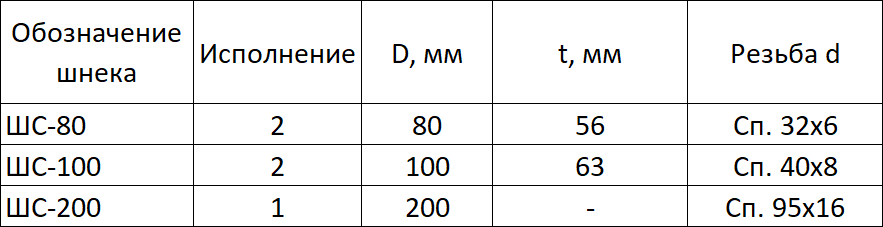
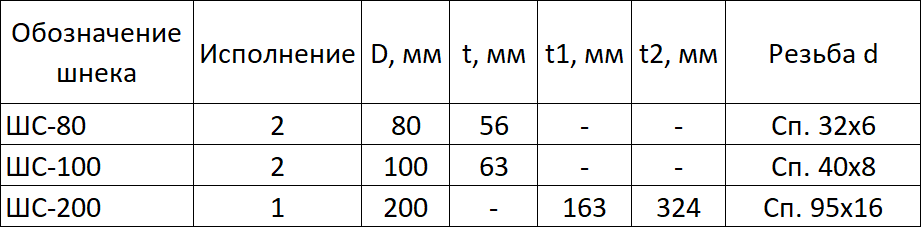
Полностью готовы все дефолтные буровые шнеки

diff --git a/GenShnekApp/MainWindow.xaml.cs b/GenShnekApp/MainWindow.xaml.cs
@@ -275,7 +275,6 @@ namespace GenShnekApp
                             case 0:
                                 shnekDiam = 80;
                                 tubeRad = (shnekDiam * 10 / 18) / 2;
-                                tubeLength = 200;
                                 CylinderCreation(tubeRad, tubeLength);
                                 SpyralCreation(tubeRad, step, 0, tubeLength, shnekThick, shnekDiam);
                                 JointCreation4(32, 28, 56);
@@ -294,12 +293,15 @@ namespace GenShnekApp
                                 SpyralCreation(36 / 2, 8, -63 * 4 / 3 * 0.95, 63, 4, 40);
                                 break;
                             case 2:
-                                MessageBox.Show("Отверстие шнека типа 2 исполнения 1 на данный момент не реализовано");
                                 shnekDiam = 200;
                                 tubeRad = (shnekDiam * 10 / 18) / 2;
+                                tubeLength = 400;
                                 CylinderCreation(tubeRad, tubeLength);
                                 SpyralCreation(tubeRad, step, 0, tubeLength, shnekThick, shnekDiam);
-                                JointCreation3(tubeRad * 2 * 0.9, tubeLength);
+                                JointCreation3(83, 95, tubeLength, 324/2);
+                                HoleType2Creation1(95, tubeRad * 2, 163, 324, tubeLength);
+                                SpyralCreation(41.5, 16, 163 / 16, 163 * 3 / 4, 8.25, 95);
+                                SpyralCreation(41.5, 16, tubeLength + 324 / 16, 324 * 3 / 8, 8.1, 95);
                                 break;
                         }
                     }
@@ -311,7 +313,7 @@ namespace GenShnekApp
                             MessageBox.Show("Отверстие шнека типа 2 исполнения 1 на данный момент не реализовано");
                             CylinderCreation(tubeRad, tubeLength);
                             SpyralCreation(tubeRad, step, 0, tubeLength, shnekThick, shnekDiam);
-                            HoleType2Creation1(tubeRad);
+                            //HoleType2Creation1(tubeRad);
                         }
                         else
                         {
@@ -594,16 +596,16 @@ namespace GenShnekApp
         }
 
         ///////////////////////////Создание присоединительного элемента 3 (тип 2 исполнение 1)/////////////////////////////
-        private void JointCreation3(double diam, double length)
+        private void JointCreation3(double threadDiam, double threadDiam0, double length, double jointLength)
         {
             ksEntity basePlaneZOY = (ksEntity)part.GetDefaultEntity((short)Obj3dType.o3d_planeYOZ);
 
-            double rad1 = (diam * 0.8) / 2;
-            double rad2 = diam / 2;
-            double len1 = 174 * 0.1;
-            double len2 = 174 * 0.8;
-            double len3 = 174 * 0.05;
-            double len4 = 174 * 0.05;
+            double rad1 = threadDiam / 2;
+            double rad2 = threadDiam / 2;
+            double len1 = jointLength * 0.1;
+            double len2 = jointLength * 0.8;
+            double len3 = jointLength * 0.05;
+            double len4 = jointLength * 0.05;
 
             ksEntity plane1 = OffsetPlaneCreation(length, basePlaneZOY);
             ksEntity ksSketchE1 = part.NewEntity((int)Obj3dType.o3d_sketch);
@@ -642,7 +644,7 @@ namespace GenShnekApp
             ksSketchE2.Create();
             ksDocument2D Sketch2D2 = (ksDocument2D)ksSketchDef2.BeginEdit();
 
-            Sketch2D2.ksCircle(0, 0, rad2, 1);
+            Sketch2D2.ksCircle(0, 0, rad1, 1);
 
             ksSketchDef2.EndEdit();
 
@@ -817,25 +819,36 @@ namespace GenShnekApp
 
         //TODO
         ///////////////////////////Создание сквозного отверстия 1 (тип 2 исполнение 1)/////////////////////////////
-        private void HoleType2Creation1(double diam)
+        private void HoleType2Creation1(double thredDiam, double diam, double threadLength1, double threadLength2, double fullLength)
         {
             ksEntity basePlaneZOY = (ksEntity)part.GetDefaultEntity((short)Obj3dType.o3d_planeYOZ);
 
-            double rad = diam / 2;
-            double len1 = 163;
+            double rad1 = thredDiam / 2;
+            double rad2 = rad1 * 3 / 5;
+            double rad3 = rad2;
+            double rad4 = rad2;
+            double rad5 = rad4;
+            double rad6 = rad1;
+            double len1 = threadLength1;
+            double len2 = len1 / 20;
+            double len3 = len2 * 2;
+            double len4 = fullLength + threadLength2 / 2;
+            double len5 = len2 * 2;
+            double len6 = len4 - len1 - len2 - len3 - threadLength2 - len5;
 
+            ksEntity plane1 = OffsetPlaneCreation(0, basePlaneZOY);
             ksEntity ksSketchE1 = part.NewEntity((int)Obj3dType.o3d_sketch);
 
             SketchDefinition ksSketchDef1 = ksSketchE1.GetDefinition();
 
-            ksSketchDef1.SetPlane(basePlaneZOY);
+            ksSketchDef1.SetPlane(plane1);
             ksSketchE1.Create();
             ksDocument2D Sketch2D1 = (ksDocument2D)ksSketchDef1.BeginEdit();
 
-            Sketch2D1.ksCircle(0, 0, rad, 1);
+            Sketch2D1.ksCircle(0, 0, rad1, 1);
             
-            ksRectangleParam rect1 = (ksRectangleParam)kompas.GetParamStruct((short)StructType2DEnum.ko_RectangleParam);
-/*            if (rect1 != null)
+/*            ksRectangleParam rect1 = (ksRectangleParam)kompas.GetParamStruct((short)StructType2DEnum.ko_RectangleParam);
+            if (rect1 != null)
             {
                 // Параметры прямоугольника
                 rect1.ang = 0;
@@ -857,10 +870,149 @@ namespace GenShnekApp
             {
                 extrDef1.SetSketch(ksSketchE1);
 
-                extrProp1.direction = (short)Direction_Type.dtNormal;
-                extrProp1.typeNormal = (short)End_Type.etBlind;
-                extrProp1.depthNormal = len1;
+                extrProp1.direction = (short)Direction_Type.dtReverse;
+                extrProp1.typeReverse = (short)End_Type.etBlind;
+                extrProp1.depthReverse = len1;
                 cutExtr1.Create();
+            }
+
+            ksEntity plane2 = OffsetPlaneCreation(len1, basePlaneZOY);
+            ksEntity ksSketchE2 = part.NewEntity((int)Obj3dType.o3d_sketch);
+
+            SketchDefinition ksSketchDef2 = ksSketchE2.GetDefinition();
+
+            ksSketchDef2.SetPlane(plane2);
+            ksSketchE2.Create();
+            ksDocument2D Sketch2D2 = (ksDocument2D)ksSketchDef2.BeginEdit();
+
+            Sketch2D2.ksCircle(0, 0, rad2, 1);
+
+            ksSketchDef2.EndEdit();
+
+            ksEntity cutExtr2 = part.NewEntity((short)Obj3dType.o3d_cutExtrusion);
+            ksCutExtrusionDefinition extrDef2 = cutExtr2.GetDefinition();
+            ksExtrusionParam extrProp2 = (ksExtrusionParam)extrDef2.ExtrusionParam();
+
+            if (extrProp2 != null)
+            {
+                extrDef2.SetSketch(ksSketchE2);
+
+                extrProp2.direction = (short)Direction_Type.dtReverse;
+                extrProp2.typeReverse = (short)End_Type.etBlind;
+                extrProp2.depthReverse = len2;
+                cutExtr2.Create();
+            }
+
+            ksEntity plane3 = OffsetPlaneCreation(len1 + len2, basePlaneZOY);
+            ksEntity ksSketchE3 = part.NewEntity((int)Obj3dType.o3d_sketch);
+
+            SketchDefinition ksSketchDef3 = ksSketchE3.GetDefinition();
+
+            ksSketchDef3.SetPlane(plane3);
+            ksSketchE3.Create();
+            ksDocument2D Sketch2D3 = (ksDocument2D)ksSketchDef3.BeginEdit();
+
+            Sketch2D3.ksCircle(0, 0, rad3, 1);
+
+            ksSketchDef3.EndEdit();
+
+            ksEntity cutExtr3 = part.NewEntity((short)Obj3dType.o3d_cutExtrusion);
+            ksCutExtrusionDefinition extrDef3 = cutExtr3.GetDefinition();
+            ksExtrusionParam extrProp3 = (ksExtrusionParam)extrDef3.ExtrusionParam();
+
+            if (extrProp3 != null)
+            {
+                extrDef3.SetSketch(ksSketchE3);
+
+                extrProp3.direction = (short)Direction_Type.dtReverse;
+                extrProp3.typeReverse = (short)End_Type.etBlind;
+                extrProp3.depthReverse = len3;
+                extrProp3.draftOutwardNormal = true;
+                extrProp3.draftValueReverse = 45;
+                cutExtr3.Create();
+            }
+
+            ksEntity plane4 = OffsetPlaneCreation(len4, basePlaneZOY);
+            ksEntity ksSketchE4 = part.NewEntity((int)Obj3dType.o3d_sketch);
+
+            SketchDefinition ksSketchDef4 = ksSketchE4.GetDefinition();
+
+            ksSketchDef4.SetPlane(plane4);
+            ksSketchE4.Create();
+            ksDocument2D Sketch2D4 = (ksDocument2D)ksSketchDef4.BeginEdit();
+
+            Sketch2D4.ksCircle(0, 0, rad4, 1);
+
+            ksSketchDef4.EndEdit();
+
+            ksEntity cutExtr4 = part.NewEntity((short)Obj3dType.o3d_cutExtrusion);
+            ksCutExtrusionDefinition extrDef4 = cutExtr4.GetDefinition();
+            ksExtrusionParam extrProp4 = (ksExtrusionParam)extrDef4.ExtrusionParam();
+
+            if (extrProp4 != null)
+            {
+                extrDef4.SetSketch(ksSketchE4);
+
+                extrProp4.direction = (short)Direction_Type.dtNormal;
+                extrProp4.typeNormal = (short)End_Type.etBlind;
+                extrProp4.depthNormal = threadLength2;
+                cutExtr4.Create();
+            }
+
+            ksEntity plane5 = OffsetPlaneCreation(len4 - threadLength2, basePlaneZOY);
+            ksEntity ksSketchE5 = part.NewEntity((int)Obj3dType.o3d_sketch);
+
+            SketchDefinition ksSketchDef5 = ksSketchE5.GetDefinition();
+
+            ksSketchDef5.SetPlane(plane5);
+            ksSketchE5.Create();
+            ksDocument2D Sketch2D5 = (ksDocument2D)ksSketchDef5.BeginEdit();
+
+            Sketch2D5.ksCircle(0, 0, rad5, 1);
+
+            ksSketchDef5.EndEdit();
+
+            ksEntity cutExtr5 = part.NewEntity((short)Obj3dType.o3d_cutExtrusion);
+            ksCutExtrusionDefinition extrDef5 = cutExtr5.GetDefinition();
+            ksExtrusionParam extrProp5 = (ksExtrusionParam)extrDef5.ExtrusionParam();
+
+            if (extrProp5 != null)
+            {
+                extrDef5.SetSketch(ksSketchE5);
+
+                extrProp5.direction = (short)Direction_Type.dtNormal;
+                extrProp5.typeNormal = (short)End_Type.etBlind;
+                extrProp5.depthNormal = len5;
+                extrProp5.draftOutwardReverse = true;
+                extrProp5.draftValueNormal = 45;
+                cutExtr5.Create();
+            }
+
+            ksEntity plane6 = OffsetPlaneCreation(len4 - threadLength2 - len5, basePlaneZOY);
+            ksEntity ksSketchE6 = part.NewEntity((int)Obj3dType.o3d_sketch);
+
+            SketchDefinition ksSketchDef6 = ksSketchE6.GetDefinition();
+
+            ksSketchDef6.SetPlane(plane6);
+            ksSketchE6.Create();
+            ksDocument2D Sketch2D6 = (ksDocument2D)ksSketchDef6.BeginEdit();
+
+            Sketch2D6.ksCircle(0, 0, rad6, 1);
+
+            ksSketchDef6.EndEdit();
+
+            ksEntity cutExtr6 = part.NewEntity((short)Obj3dType.o3d_cutExtrusion);
+            ksCutExtrusionDefinition extrDef6 = cutExtr6.GetDefinition();
+            ksExtrusionParam extrProp6 = (ksExtrusionParam)extrDef6.ExtrusionParam();
+
+            if (extrProp6 != null)
+            {
+                extrDef6.SetSketch(ksSketchE6);
+
+                extrProp6.direction = (short)Direction_Type.dtNormal;
+                extrProp6.typeNormal = (short)End_Type.etBlind;
+                extrProp6.depthNormal = len6;
+                cutExtr6.Create();
             }
         }
 
@@ -1076,9 +1228,6 @@ namespace GenShnekApp
                 extrProp7.depthNormal = len7;
                 cutExtr7.Create();
             }
-
-            //TODO
-            //Создать резьбу
         }
 
         ///////////////////////////Создание кастомных плоскостей/////////////////////////////
